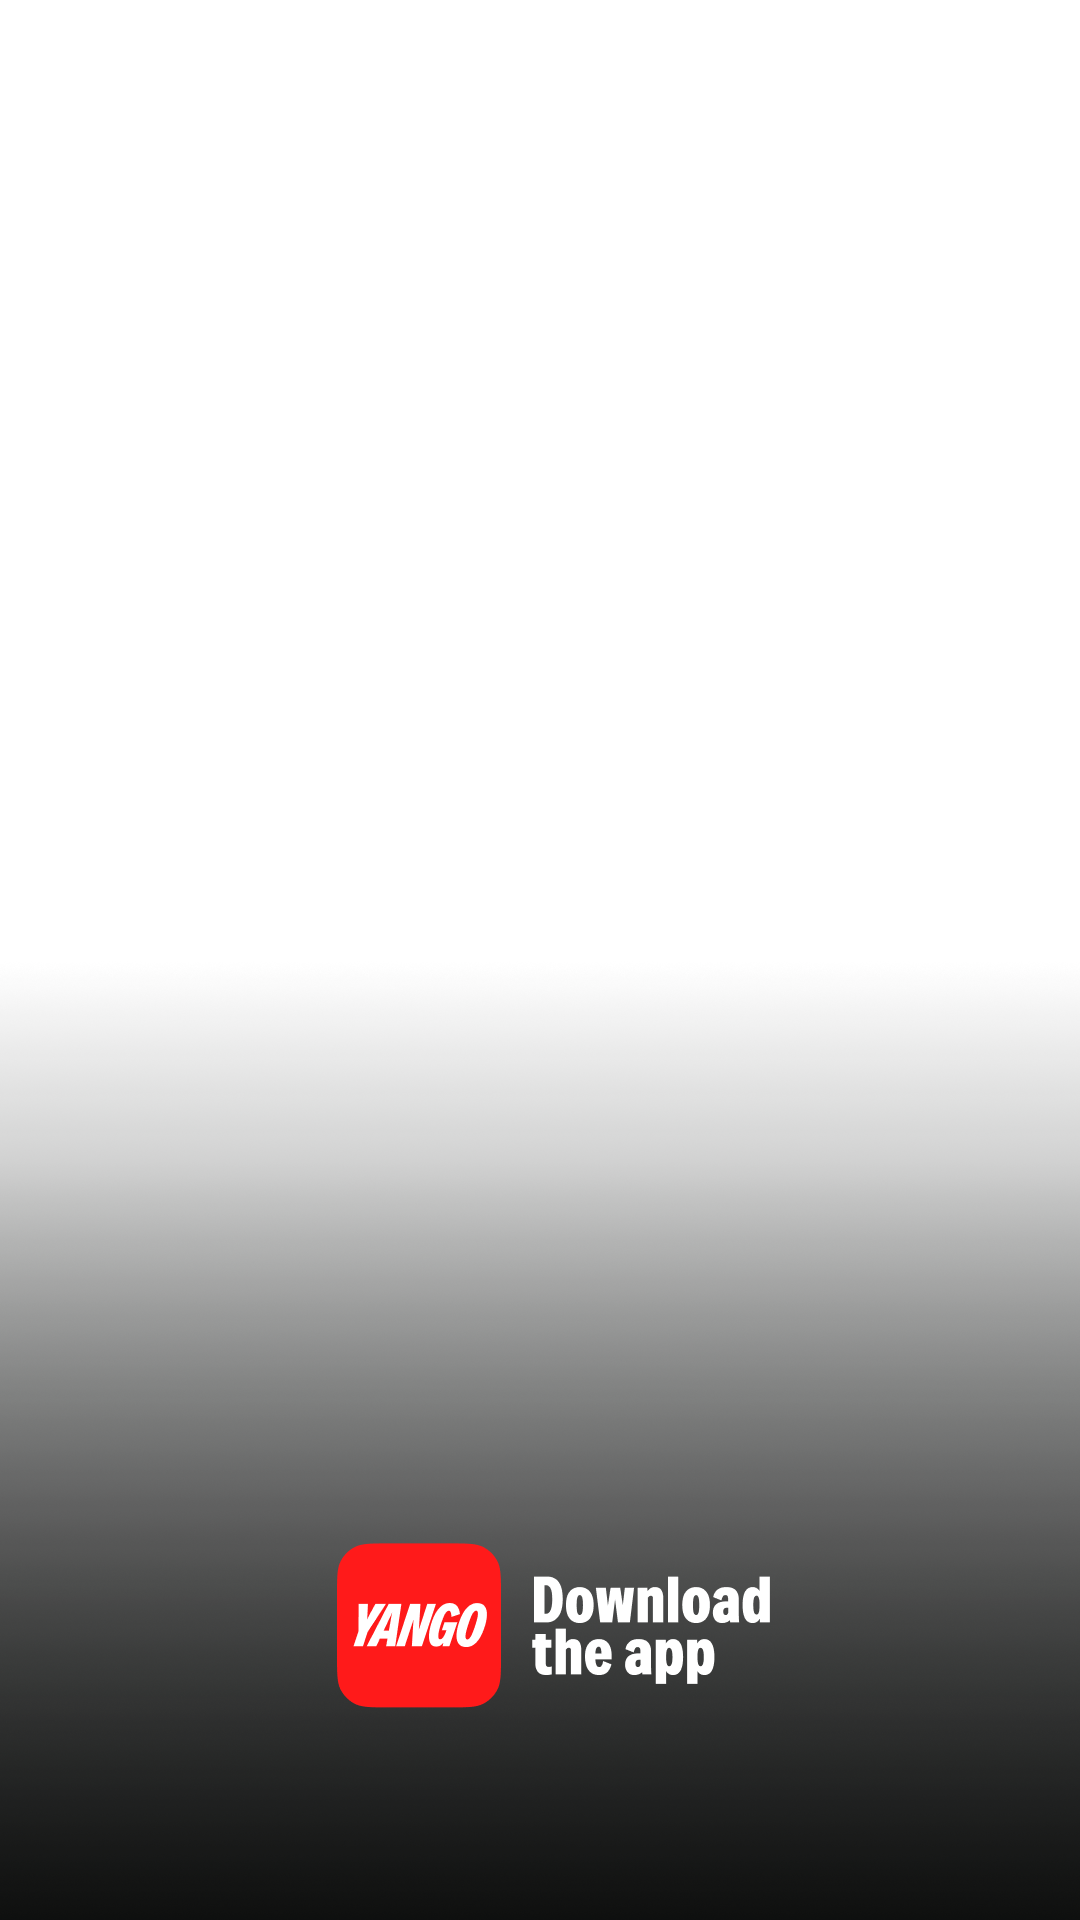
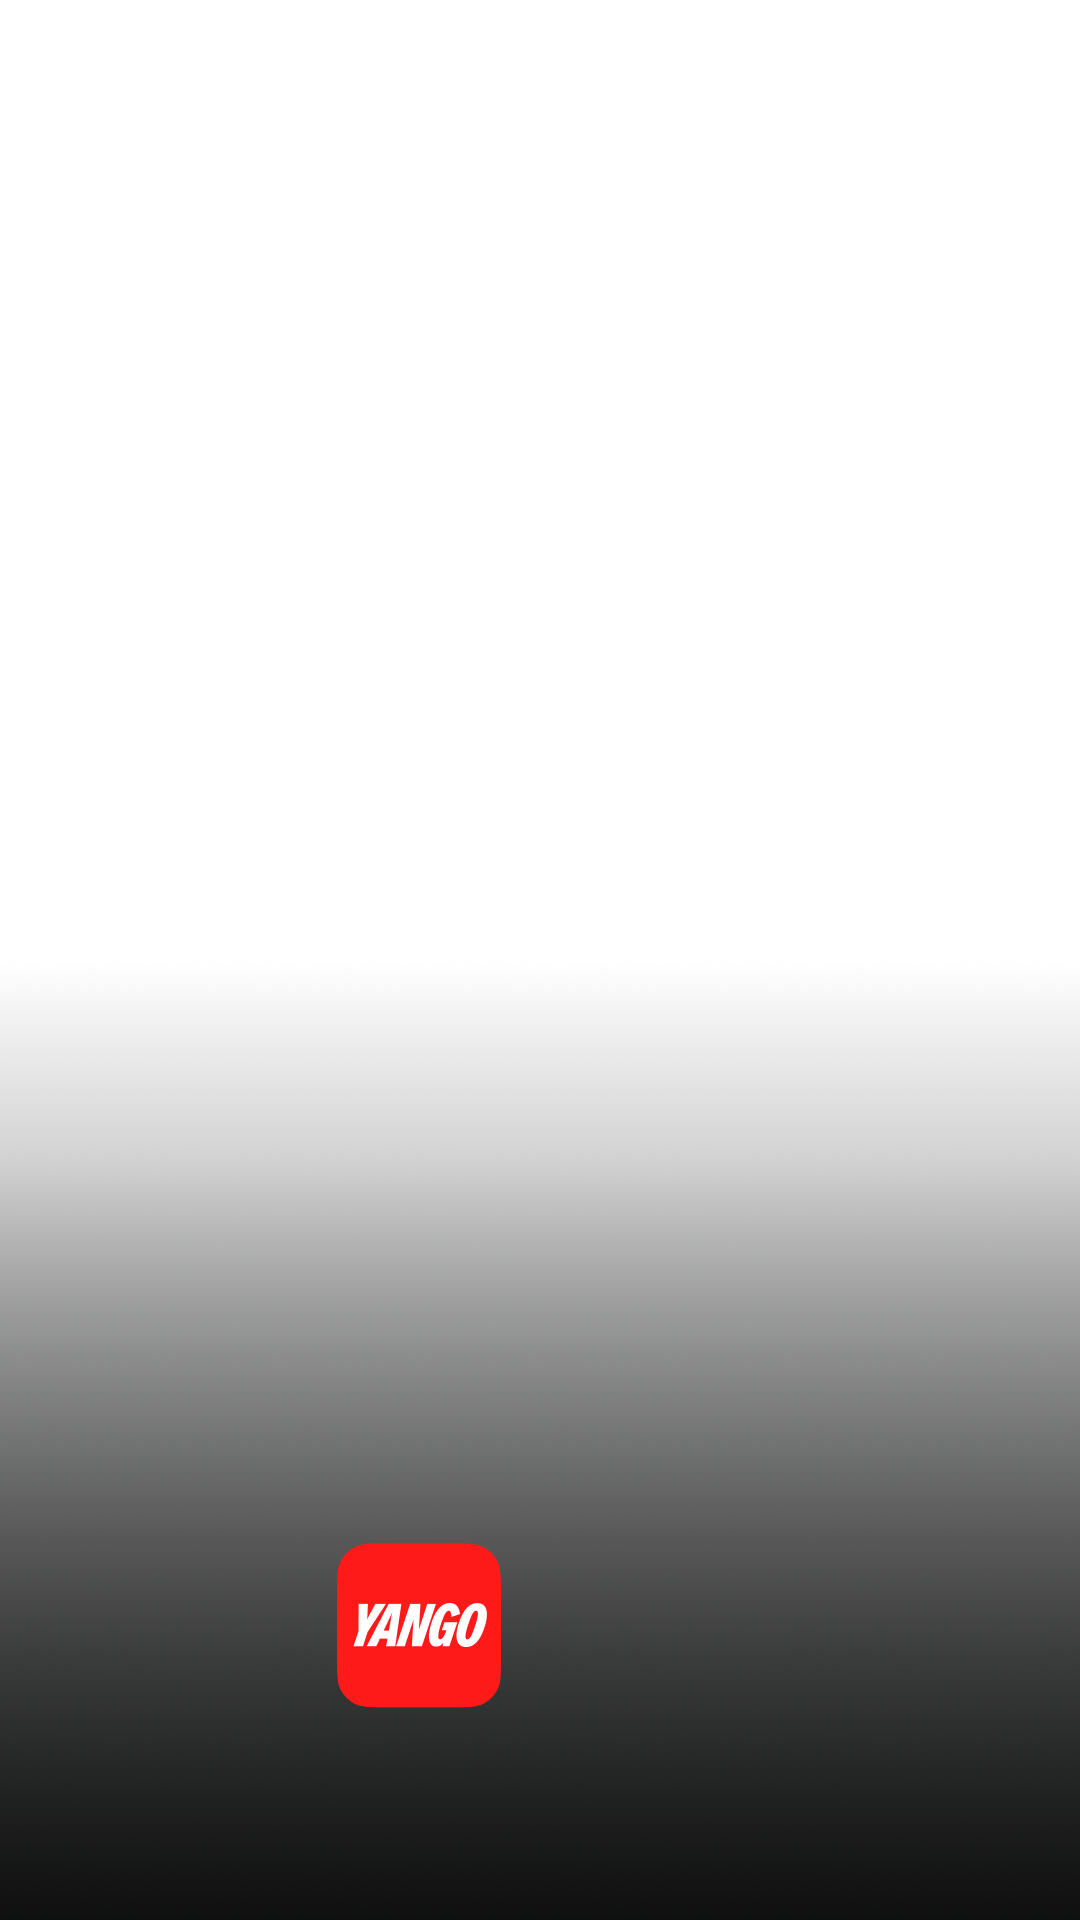
layouts

Changed region(s): [[0.4889, 0.8125, 0.7333, 0.875]]

diff --git a/main.py b/main.py
@@ -466,7 +466,7 @@ def compose(bg, headline, subline, disclaimer, banner_key, layout_key, apply_ove
             download_font = load_font("Fonts/YangoGroupHeadline-HeavyArabic.ttf", download_font_size)
             
             # 1200x628 specific positioning
-            download_x = 40 - 60 + 236  # Move left by 60px from original position + 236px to the right
+            download_x = 40 - 60 + 236 - 40  # Move left by 60px from original position + 236px to the right - 40px to the left
             download_y = h - 40 - download_font.getbbox(download_phrase)[3] - 70  # Move up by 70px
             
             # Draw the download phrase with 315px text block width, left-aligned
@@ -623,16 +623,16 @@ def compose(bg, headline, subline, disclaimer, banner_key, layout_key, apply_ove
             
             # Position based on banner size
             if banner_key == "1080x1920":
-                # Move up by 240px and right by 260px + 220px = 480px
-                download_x = pad["left"] + 480
+                # Move up by 240px and right by 260px + 220px - 100px = 380px
+                download_x = pad["left"] + 380
                 download_y = h - pad["bottom"] - download_font.getbbox(download_phrase)[3] - 240
             elif banner_key == "1200x1500":
-                # Move up by 110px and right by 220px
-                download_x = pad["left"] + 220
+                # Move up by 110px and right by 220px - 100px = 120px
+                download_x = pad["left"] + 120
                 download_y = h - pad["bottom"] - download_font.getbbox(download_phrase)[3] - 110
             elif banner_key == "1200x1200":
-                # Move up by 110px and right by 220px
-                download_x = pad["left"] + 220
+                # Move up by 110px and right by 220px - 100px = 120px
+                download_x = pad["left"] + 120
                 download_y = h - pad["bottom"] - download_font.getbbox(download_phrase)[3] - 110
             else:
                 # Default positioning
